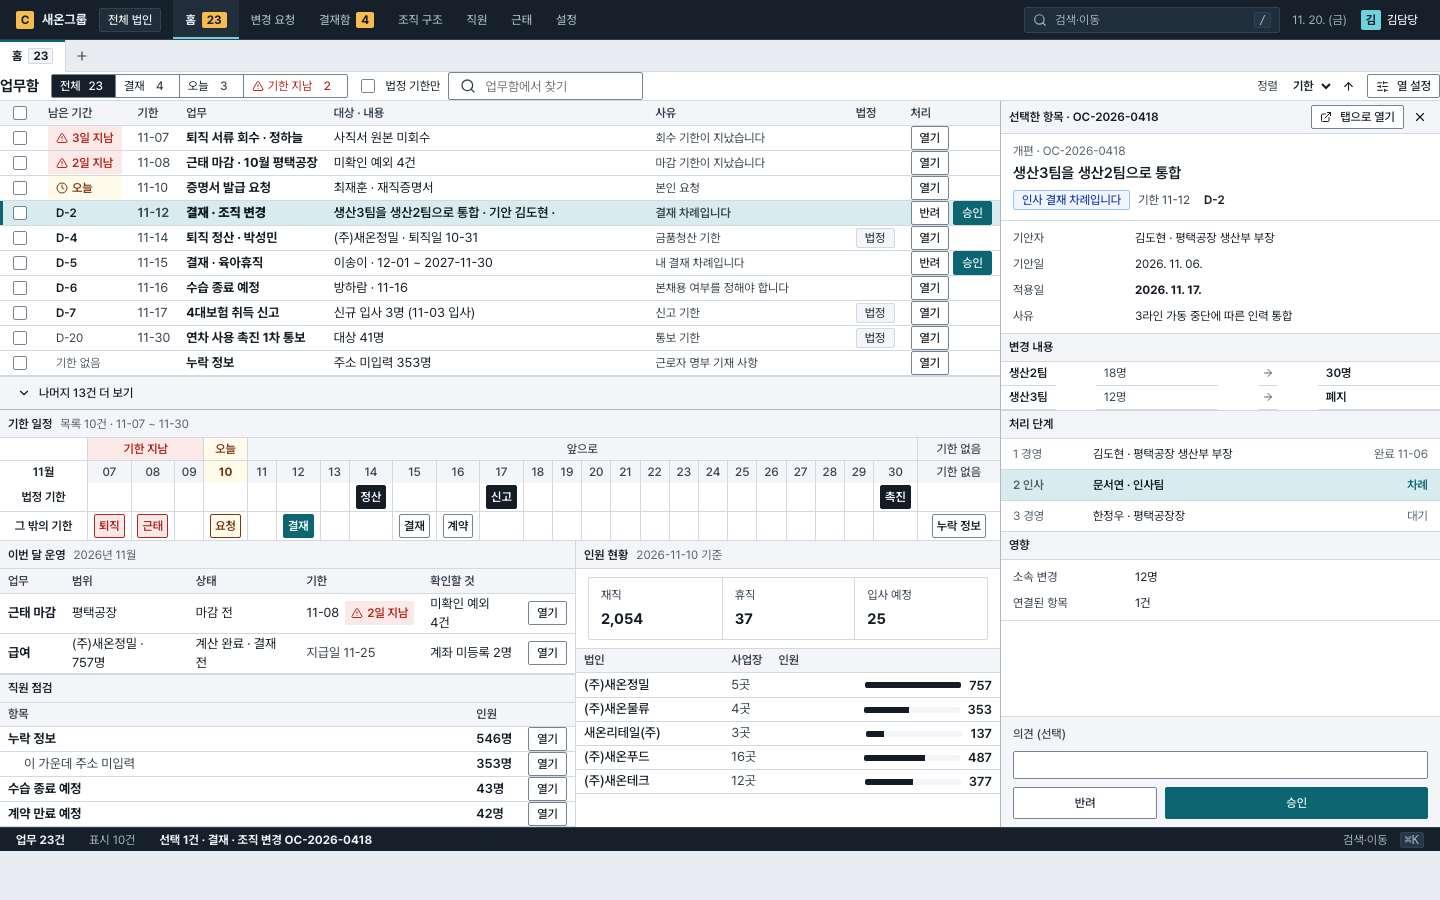
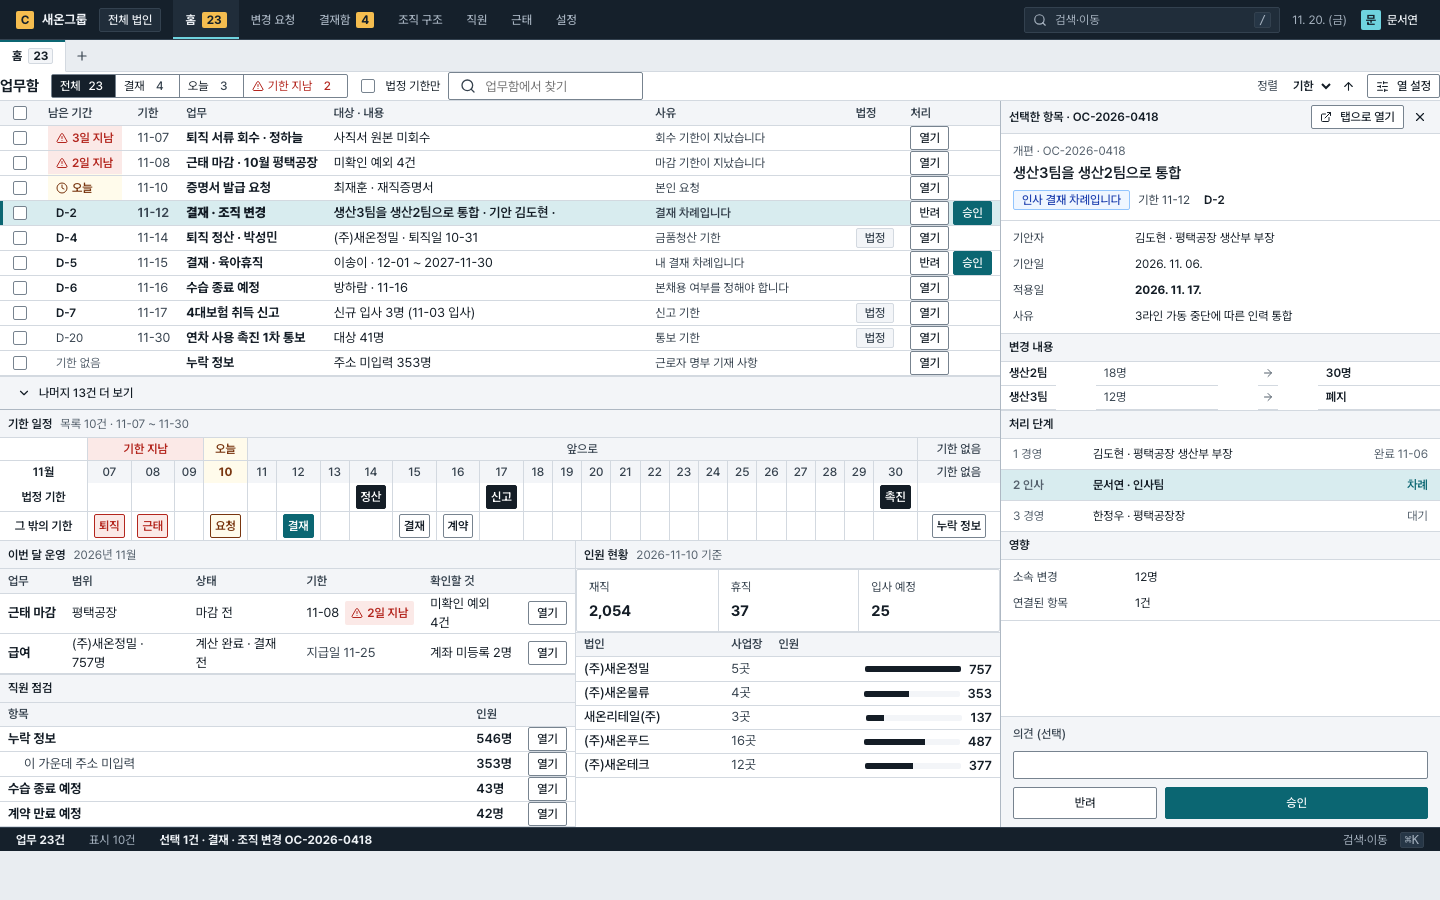
fix(home): eliminate 390px ops table clip and align saeon fixture

diff --git a/apps/web/src/features/home/ui/worklist-lower.tsx b/apps/web/src/features/home/ui/worklist-lower.tsx
@@ -52,6 +52,23 @@ function splitPayrollNote(row: AttentionInboxItem): { dueText?: string; checkTex
   };
 }
 
+function opsRowSummary(row: AttentionInboxItem) {
+  const note = splitPayrollNote(row);
+  const scope = row.context?.worksite_name ?? row.site;
+  const state = t(
+    row.kind === "payroll"
+      ? "home.worklist.opsState.payrollCalculated"
+      : "home.worklist.opsState.beforeClose",
+  );
+  return {
+    scope: scope ?? "—",
+    state,
+    dueText: note.dueText,
+    checkText: note.checkText,
+    phoneSummary: [scope, state, note.checkText].filter(Boolean).join(" · "),
+  };
+}
+
 /**
  * Lower two-column operational bands beneath the deadline strip: monthly operations, capability-gated people checks,
  * headcount stats, and legal-entity headcount breakdown.
@@ -112,33 +129,40 @@ export function WorklistLower({
               columns={[
                 {
                   header: t("home.worklist.col.task"),
-                  cell: row => (
-                    <strong className={s.dateCol}>
-                      {t(
-                        row.context?.unlock?.exceptionId
-                          ? "periodLocks.review.title"
-                          : row.kind === "period_unlock" && !row.context?.unlock
-                            ? "home.worklist.attendanceClose"
-                            : KIND_TEXT[row.kind] ?? "home.inbox.unknown",
-                      )}
-                    </strong>
-                  ),
+                  cell: row => {
+                    const taskLabel = t(
+                      row.context?.unlock?.exceptionId
+                        ? "periodLocks.review.title"
+                        : row.kind === "period_unlock" && !row.context?.unlock
+                          ? "home.worklist.attendanceClose"
+                          : KIND_TEXT[row.kind] ?? "home.inbox.unknown",
+                    );
+                    const { phoneSummary } = opsRowSummary(row);
+                    return (
+                      <div className={s.opsTaskCell}>
+                        <strong className={s.dateCol}>{taskLabel}</strong>
+                        {phoneSummary ? (
+                          <bdi className={`${s.opsPhoneMeta} muted t-xs`}>{phoneSummary}</bdi>
+                        ) : null}
+                      </div>
+                    );
+                  },
                 },
-                { header: t("home.worklist.opsCol.scope"), cell: row => row.context?.worksite_name ?? row.site ?? "—" },
+                {
+                  header: t("home.worklist.opsCol.scope"),
+                  wide: true,
+                  cell: row => opsRowSummary(row).scope,
+                },
                 {
                   header: t("home.worklist.opsCol.state"),
-                  cell: row =>
-                    t(
-                      row.kind === "payroll"
-                        ? "home.worklist.opsState.payrollCalculated"
-                        : "home.worklist.opsState.beforeClose",
-                    ),
+                  wide: true,
+                  cell: row => opsRowSummary(row).state,
                 },
                 {
                   header: t("home.inbox.column.due"),
                   cell: row => {
-                    const note = splitPayrollNote(row);
-                    if (note.dueText) return <bdi className="num muted">{note.dueText}</bdi>;
+                    const { dueText } = opsRowSummary(row);
+                    if (dueText) return <bdi className="num muted">{dueText}</bdi>;
                     const md = shortMonthDay(row.due);
                     return (
                       <div className={s.opsDue}>
@@ -151,7 +175,7 @@ export function WorklistLower({
                 {
                   header: t("home.worklist.opsCol.check"),
                   wide: true,
-                  cell: row => splitPayrollNote(row).checkText,
+                  cell: row => opsRowSummary(row).checkText,
                 },
                 {
                   header: <bdi className="sr-only">{t("home.worklist.col.action")}</bdi>,
@@ -223,16 +247,18 @@ export function WorklistLower({
             <PaneHead title={t("home.worklist.headcount")} meta={asOfDay ? t("home.asOf", { time: asOfDay }) : undefined} level={3} />
             {canDirectory ? (
               facets.data ? (
-                <WorklistStatWrap>
-                  <StatRow
-                    label={t("home.worklist.headcount")}
-                    items={[
-                      { key: "active", label: t("home.worklist.stat.active"), value: fmtNumber(activeCount) },
-                      { key: "leave", label: t("home.worklist.stat.leave"), value: fmtNumber(leaveCount) },
-                      { key: "starting", label: t("home.worklist.stat.starting"), value: fmtNumber(startingCount) },
-                    ]}
-                  />
-                </WorklistStatWrap>
+                <div className={s.statWrap}>
+                  <WorklistStatWrap>
+                    <StatRow
+                      label={t("home.worklist.headcount")}
+                      items={[
+                        { key: "active", label: t("home.worklist.stat.active"), value: fmtNumber(activeCount) },
+                        { key: "leave", label: t("home.worklist.stat.leave"), value: fmtNumber(leaveCount) },
+                        { key: "starting", label: t("home.worklist.stat.starting"), value: fmtNumber(startingCount) },
+                      ]}
+                    />
+                  </WorklistStatWrap>
+                </div>
               ) : facets.isPending ? (
                 <WorklistBandEmpty><Skeleton decorative bones={["short", "short"]} /></WorklistBandEmpty>
               ) : !canOrg ? (

diff --git a/e2e/mock/home-worklist-console.spec.ts b/e2e/mock/home-worklist-console.spec.ts
@@ -11,6 +11,7 @@ import { previewData } from "./onboarding";
 import { failure, inbox, screenAccess, user } from "./fixtures";
 import { mockRoute } from "./route";
 import {
+  saeonAdminToken,
   saeonAdminUser,
   saeonApprovalOrgChange,
   saeonEmployeeFacets,
@@ -80,6 +81,7 @@ async function setupConsoleSaeonWorklist(page: Page, theme: "light" | "dark" = "
 
   const orgAccess = screenAccess("/org");
   const peopleAccess = screenAccess("/people");
+  await mockRoute(page, "post", "/api/v1/auth/token/refresh", { status: 200, json: saeonAdminToken() });
   await mockRoute(page, "get", "/api/v1/users/me", { status: 200, json: saeonAdminUser() });
   await mockRoute(page, "get", "/api/v1/access/me", {
     status: 200,
@@ -169,6 +171,8 @@ for (const width of [1440, 390]) {
         await expect(worklist.getByRole("table", { name: t("home.worklist.opsTitle"), exact: true }).locator("tbody tr")).toHaveCount(2);
 
         if (width === 1440) {
+          await expect(page.getByRole("banner")).toContainText(saeonUniverse.adminActor.name);
+          await expect(page.getByRole("banner")).not.toContainText(user.display_name);
           await expect(page.getByRole("heading", { level: 1, name: t("home.inbox.title"), exact: true })).toBeVisible();
           await expect(worklist.getByRole("link", { name: t("home.inbox.viewInbox"), exact: true })).toHaveCount(0);
           const orgRow = queueTable.locator('tbody tr[data-id="OC-2026-0418"]');
@@ -205,6 +209,25 @@ for (const width of [1440, 390]) {
         } else {
           const theadBox = await queueTable.locator("thead").boundingBox();
           expect(theadBox ? theadBox.width <= 2 && theadBox.height <= 2 : true).toBe(true);
+          const opsTable = worklist.getByRole("table", { name: t("home.worklist.opsTitle"), exact: true });
+          const opsFits = await opsTable.evaluate(el => {
+            const scroller = el.parentElement;
+            return el.scrollWidth <= (scroller?.clientWidth ?? el.clientWidth) + 1 &&
+              (!scroller || scroller.scrollWidth <= scroller.clientWidth + 1);
+          });
+          expect(opsFits).toBe(true);
+          await expect(opsTable.locator("..").locator("..").locator("[data-scroll-cue]")).toHaveCount(0);
+          await expect(opsTable).toContainText(saeonUniverse.entities[0]!.workplaces[1]!.name);
+          await expect(opsTable).toContainText(
+            saeonUniverse.worklist.items.find(item => item.id === "att-close-1")!.subject,
+          );
+          await expect(opsTable).toContainText(
+            `${t("accessCodes.domain.bank")} ${t("person.field.notSet")} ${t("home.worklist.personCount", { count: saeonUniverse.payrollRun.missingBankAccountCount })}`,
+          );
+          for (const openLink of await opsTable.getByRole("link", { name: t("home.inbox.open"), exact: true }).all()) {
+            const box = await openLink.boundingBox();
+            expect(box && box.x + box.width <= 390).toBe(true);
+          }
         }
         await withFullPage(page, () => shot(page, `home--${width}-${theme}`));
 

diff --git a/e2e/mock/saeon.test.ts b/e2e/mock/saeon.test.ts
@@ -10,6 +10,7 @@ import {
   maskMobilePhone,
   maskRrn,
   rrnChecksumValid,
+  saeonAdminToken,
   saeonAdminUser,
   saeonApprovalOrgChange,
   saeonAttendanceSummary,
@@ -155,12 +156,19 @@ test("roster generator and OpenAPI mock builders expose the 2,054-row universe c
   expect(checksumValidRrns(roster.map(row => row.rrn).join("\n"))).toEqual([]);
 
   const admin = saeonAdminUser();
+  const adminToken = saeonAdminToken();
+  const adminClaims = JSON.parse(Buffer.from(adminToken.access_token.split(".")[1]!, "base64url").toString()) as {
+    sub: string;
+    name: string;
+  };
   const hero = saeonHeroUser();
   const org = saeonOrgStructure();
   const facets = saeonEmployeeFacets();
   const windowEmployees = saeonRosterEmployees();
 
   expect(admin.tenant?.name).toBe(saeonUniverse.tenantName);
+  expect(adminClaims.sub).toBe(admin.id);
+  expect(adminClaims.name).toBe(saeonUniverse.adminActor.name);
   expect(hero.employee_number).toBe("10587");
   expect(org.entities).toHaveLength(5);
   expect(org.entities.flatMap(entity => entity.children ?? [])).toHaveLength(40);

diff --git a/e2e/mock/saeon.ts b/e2e/mock/saeon.ts
@@ -237,6 +237,24 @@ export function saeonAdminUser(): S["CurrentUser"] {
   };
 }
 
+/** OpenAPI-typed refresh token pair carrying the Saeon HR administrator claims. */
+export function saeonAdminToken(orgId = "00000000-0000-4000-8000-000000000002"): S["TokenPairResponse"] {
+  const admin = saeonAdminUser();
+  const claims = {
+    sub: admin.id,
+    org: orgId,
+    name: admin.display_name,
+    exp: Math.floor(Date.now() / 1000) + 3600,
+  };
+  return {
+    access_token: `${Buffer.from('{"alg":"none"}').toString("base64url")}.${Buffer.from(JSON.stringify(claims)).toString("base64url")}.mock`,
+    token_type: "Bearer",
+    refresh_expires_at: "2099-01-01T00:00:00Z",
+    requires_passkey_setup: false,
+    privacy_consent_accepted: true,
+  };
+}
+
 /** OpenAPI-typed self-service employee profile (employee 10587) for phone screen specs. */
 export function saeonHeroUser(): S["CurrentUser"] {
   const heroRow = generateSaeonRoster()[1286]!;

diff --git a/apps/web/src/features/home/ui/worklist-console.module.css b/apps/web/src/features/home/ui/worklist-console.module.css
@@ -48,6 +48,19 @@
   white-space: nowrap;
 }
 
+.opsTaskCell {
+  display: contents;
+}
+
+.opsPhoneMeta {
+  display: none;
+}
+
+.statWrap > div {
+  margin: 0;
+  padding: 0;
+}
+
 .dateCol {
   white-space: nowrap;
 }
@@ -68,6 +81,26 @@
   .subjectPrimary,
   .subjectMeta {
     white-space: normal;
+  }
+
+  .opsTaskCell {
+    display: flex;
+    flex-direction: column;
+    gap: var(--space-half);
+    min-width: 0;
+    max-width: calc(var(--space-6) * 5);
+    padding-block: var(--space-1);
+  }
+
+  .opsPhoneMeta {
+    display: block;
+    white-space: normal;
+  }
+
+  .opsDue {
+    flex-wrap: wrap;
+    max-width: calc(var(--space-6) * 3.5);
+    padding-block: var(--space-1);
   }
 
   .actionsCell {
